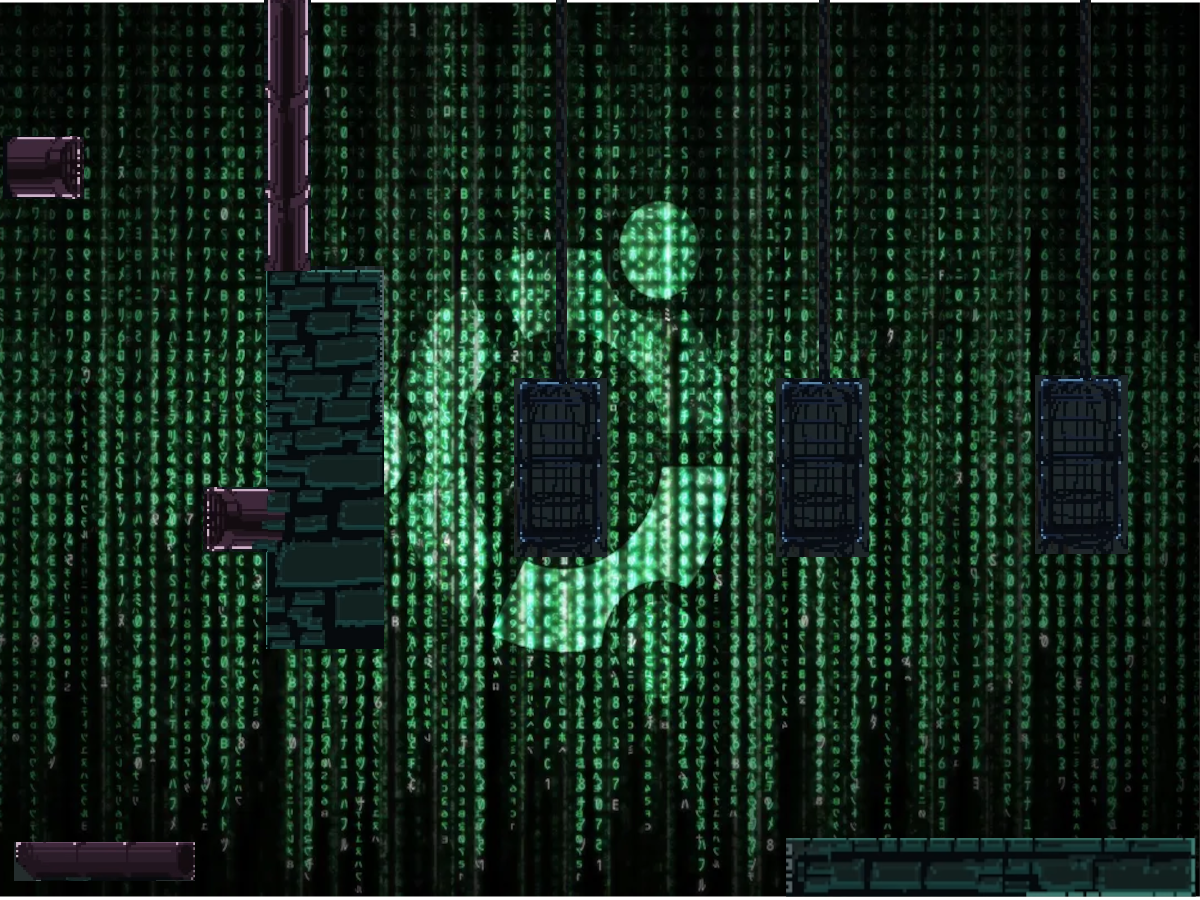
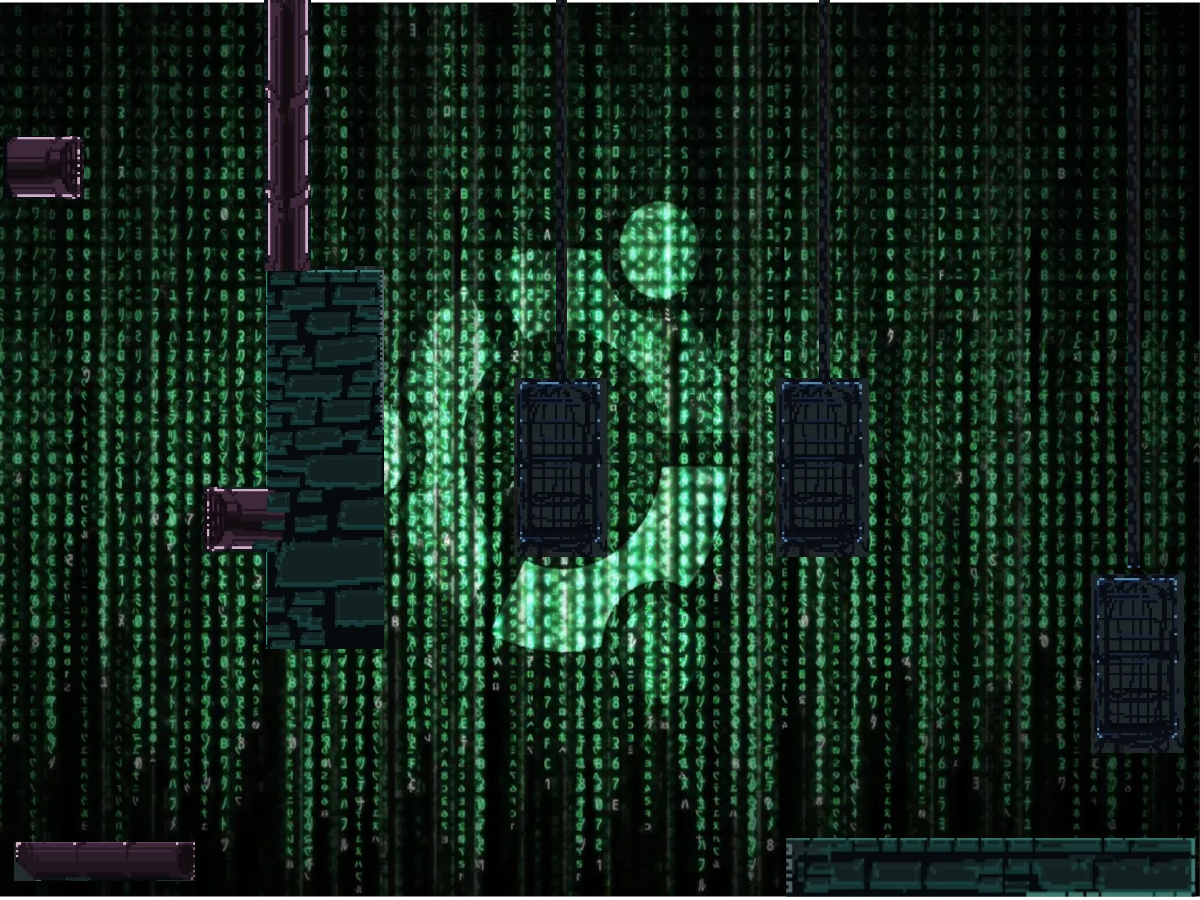
nivel 4 5 aumentados y correguido nivel 3

Changed region(s): [[0.8633, 0.0, 0.9867, 0.84]]

diff --git a/LevelSetupFunction.js b/LevelSetupFunction.js
@@ -54,6 +54,16 @@ function setupLevels() {
     tempLevel.lines.push(new Line(835,80,835,30));
     tempLevel.lines.push(new Line(375,30,835,30));
 
+    tempLevel.lines.push(new Line(160,253,240,253));
+
+  
+    tempLevel.lines.push(new Line(487,85,487,30));
+    tempLevel.lines.push(new Line(599,85,599,30));
+    tempLevel.lines.push(new Line(711,85,711,30));
+    
+
+
+
 
 
 
@@ -66,33 +76,54 @@ function setupLevels() {
     tempLevel.lines.push(new Line(1200,0,1200, 900));
 
     tempLevel.lines.push(new Line(0,900,120,900));
-    tempLevel.lines.push(new Line(30,800,30,900));
-    tempLevel.lines.push(new Line(60,800,60,900));
-    tempLevel.lines.push(new Line(90,800,90,900));
-
     tempLevel.lines.push(new Line(0,900,0,800));
     tempLevel.lines.push(new Line(120,900,120,800));
     tempLevel.lines.push(new Line(0,800,120,800));
-     
+    tempLevel.lines.push(new Line(30,900,30,800));
+    tempLevel.lines.push(new Line(60,900,60,800));
+    tempLevel.lines.push(new Line(90,900,90,800));
+    
     tempLevel.lines.push(new Line(50,350,170,350));
     tempLevel.lines.push(new Line(50,350,50,280));
     tempLevel.lines.push(new Line(170,350,170,280));
     tempLevel.lines.push(new Line(50,280,170,280));
-     
+    tempLevel.lines.push(new Line(80,350,80,280));
+    tempLevel.lines.push(new Line(110,350,110,280));
+    tempLevel.lines.push(new Line(140,350,140,280));
+    
     tempLevel.lines.push(new Line(450,670,615,670));
     tempLevel.lines.push(new Line(450,670,450,570));
     tempLevel.lines.push(new Line(615,670,615,570));
     tempLevel.lines.push(new Line(450,570,615,570));
-
+    tempLevel.lines.push(new Line(491,670,491,570));
+    tempLevel.lines.push(new Line(532,670,532,570));
+    tempLevel.lines.push(new Line(573,670,573,570));
+    
     tempLevel.lines.push(new Line(510,190,780,190));
     tempLevel.lines.push(new Line(510,190,510,85));
     tempLevel.lines.push(new Line(780,190,780,85));
     tempLevel.lines.push(new Line(510,85,780,85));
-     
+    tempLevel.lines.push(new Line(577,190,577,85));
+    tempLevel.lines.push(new Line(644,190,644,85));
+    tempLevel.lines.push(new Line(711,190,711,85));
+    
     tempLevel.lines.push(new Line(1030,900,1200,900));
+    tempLevel.lines.push(new Line(1030,850,1200,850));
+    tempLevel.lines.push(new Line(1030,800,1200,800));
+    tempLevel.lines.push(new Line(1030,750,1200,750));
+    tempLevel.lines.push(new Line(1030,700,1200,700));
+    tempLevel.lines.push(new Line(1030,650,1200,650));
+    tempLevel.lines.push(new Line(1030,600,1200,600));
+    tempLevel.lines.push(new Line(1030,550,1200,550));
+    tempLevel.lines.push(new Line(1030,500,1200,500));
+
     tempLevel.lines.push(new Line(1030,900,1030,410));
     tempLevel.lines.push(new Line(1200,900,1200,410));
     tempLevel.lines.push(new Line(1030,410,1200,410));
+    tempLevel.lines.push(new Line(1072,900,1072,410));
+//tempLevel.lines.push(new Line(1114,900,1114,410));
+//tempLevel.lines.push(new Line(1156,900,1156,410));
+
 
     //nivel 3
     levels.push(tempLevel);
@@ -105,49 +136,194 @@ function setupLevels() {
     tempLevel.lines.push(new Line(15,880,15,840));
     tempLevel.lines.push(new Line(200,880,200,840));
     tempLevel.lines.push(new Line(15,840,200,840));
+    tempLevel.lines.push(new Line(61,880,61,840));
+    tempLevel.lines.push(new Line(107,880,107,840));
+    tempLevel.lines.push(new Line(153,880,153,840));
     
     tempLevel.lines.push(new Line(265,645,380,645));
     tempLevel.lines.push(new Line(265,645,265,270));
     tempLevel.lines.push(new Line(380,645,380,270));
     tempLevel.lines.push(new Line(265,270,380,270));
+    tempLevel.lines.push(new Line(293,645,293,270));
+    tempLevel.lines.push(new Line(321,645,321,270));
+    tempLevel.lines.push(new Line(349,645,349,270));
     
     tempLevel.lines.push(new Line(205,550,270,550));
     tempLevel.lines.push(new Line(205,550,205,490));
     tempLevel.lines.push(new Line(270,550,270,490));
     tempLevel.lines.push(new Line(205,490,270,490));
+    tempLevel.lines.push(new Line(221,550,221,490));
+    tempLevel.lines.push(new Line(237,550,237,490));
+    tempLevel.lines.push(new Line(253,550,253,490));
     
     tempLevel.lines.push(new Line(265,275,310,275));
     tempLevel.lines.push(new Line(265,275,265,0));
     tempLevel.lines.push(new Line(310,275,310,0));
     tempLevel.lines.push(new Line(265,0,310,0));
+    tempLevel.lines.push(new Line(276,275,276,0));
+    tempLevel.lines.push(new Line(287,275,287,0));
+    tempLevel.lines.push(new Line(298,275,298,0));
     
     tempLevel.lines.push(new Line(0,195,85,195));
     tempLevel.lines.push(new Line(0,195,0,135));
     tempLevel.lines.push(new Line(85,195,85,135));
     tempLevel.lines.push(new Line(0,135,85,135));
+    tempLevel.lines.push(new Line(21,195,21,135));
+    tempLevel.lines.push(new Line(42,195,42,135));
+    tempLevel.lines.push(new Line(63,195,63,135));
 
     tempLevel.lines.push(new Line(520,555,605,555));
     tempLevel.lines.push(new Line(520,555,520,380));
     tempLevel.lines.push(new Line(605,555,605,380));
     tempLevel.lines.push(new Line(520,380,605,380));
+    tempLevel.lines.push(new Line(541,555,541,380));
+    tempLevel.lines.push(new Line(562,555,562,380));
+    tempLevel.lines.push(new Line(583,555,583,380));
 
     tempLevel.lines.push(new Line(780,555,870,555));
     tempLevel.lines.push(new Line(780,555,780,380));
     tempLevel.lines.push(new Line(870,555,870,380));
     tempLevel.lines.push(new Line(780,380,870,380));
+    tempLevel.lines.push(new Line(802,555,802,380));
+    tempLevel.lines.push(new Line(824,555,824,380));
+    tempLevel.lines.push(new Line(846,555,846,380));
 
-    tempLevel.lines.push(new Line(1030,555,1125,555));
-    tempLevel.lines.push(new Line(1030,555,1030,380));
-    tempLevel.lines.push(new Line(1125,555,1125,380));
-    tempLevel.lines.push(new Line(1030,380,1125,380));
+    tempLevel.lines.push(new Line(1100,750,1200,750));
+tempLevel.lines.push(new Line(1100,750,1100,575));
+tempLevel.lines.push(new Line(1200,750,1200,575));
+tempLevel.lines.push(new Line(1100,575,1200,575));
+tempLevel.lines.push(new Line(1125,750,1125,575));
+tempLevel.lines.push(new Line(1150,750,1150,575));
+tempLevel.lines.push(new Line(1175,750,1175,575));
 
     tempLevel.lines.push(new Line(780,900,1200,900));
     tempLevel.lines.push(new Line(780,900,780,840));
     tempLevel.lines.push(new Line(1200,900,1200,840));
     tempLevel.lines.push(new Line(780,840,1200,840));
+    tempLevel.lines.push(new Line(885,900,885,840));
+    tempLevel.lines.push(new Line(990,900,990,840));
+    tempLevel.lines.push(new Line(1095,900,1095,840));
+
 
     
     levels.push(tempLevel);
+
+        //Nivel 4
+    
+        tempLevel = new Level();
+        tempLevel.lines.push(new Line(0, 900, 0, 0));
+        tempLevel.lines.push(new Line(1200,0,1200,900));
+    
+        tempLevel.lines.push(new Line(0,865,95,865));
+        tempLevel.lines.push(new Line(0,865,0,640));
+        tempLevel.lines.push(new Line(95,865,95,640));
+        tempLevel.lines.push(new Line(0,640,95,640));
+        tempLevel.lines.push(new Line(23,865,23,640));
+        tempLevel.lines.push(new Line(46,865,46,640));
+        tempLevel.lines.push(new Line(69,865,69,640));
+        
+        tempLevel.lines.push(new Line(270,530,415,530));
+        tempLevel.lines.push(new Line(270,530,270,440));
+        tempLevel.lines.push(new Line(415,530,415,440));
+        tempLevel.lines.push(new Line(270,440,415,440));
+        tempLevel.lines.push(new Line(306,530,306,440));
+        tempLevel.lines.push(new Line(342,530,342,440));
+        tempLevel.lines.push(new Line(378,530,378,440));
+        
+        tempLevel.lines.push(new Line(600,250,750,250));
+        tempLevel.lines.push(new Line(600,250,600,170));
+        tempLevel.lines.push(new Line(750,250,750,170));
+        tempLevel.lines.push(new Line(600,170,750,170));
+        tempLevel.lines.push(new Line(637,250,637,170));
+        tempLevel.lines.push(new Line(674,250,674,170));
+        tempLevel.lines.push(new Line(711,250,711,170));
+        
+     
+        
+        tempLevel.lines.push(new Line(705,880,830,880));
+        tempLevel.lines.push(new Line(705,880,705,810));
+        tempLevel.lines.push(new Line(830,880,830,810));
+        tempLevel.lines.push(new Line(705,810,830,810));
+        tempLevel.lines.push(new Line(736,880,736,810));
+        tempLevel.lines.push(new Line(767,880,767,810));
+        tempLevel.lines.push(new Line(798,880,798,810));
+        
+        tempLevel.lines.push(new Line(1030,890,1200,890));
+        tempLevel.lines.push(new Line(1030,890,1030,770));
+        tempLevel.lines.push(new Line(1200,890,1200,770));
+        tempLevel.lines.push(new Line(1030,770,1200,770));
+        tempLevel.lines.push(new Line(1072,890,1072,770));
+        tempLevel.lines.push(new Line(1114,890,1114,770));
+        tempLevel.lines.push(new Line(1156,890,1156,770));
+        
+        tempLevel.lines.push(new Line(1100,470,1200,470));
+        tempLevel.lines.push(new Line(1100,470,1100,325));
+        tempLevel.lines.push(new Line(1200,470,1200,325));
+        tempLevel.lines.push(new Line(1100,325,1200,325));
+        tempLevel.lines.push(new Line(1125,470,1125,325));
+        tempLevel.lines.push(new Line(1150,470,1150,325));
+        tempLevel.lines.push(new Line(1175,470,1175,325));
+        
+    
+        levels.push(tempLevel);
+
+
+
+
+    //Nivel 5
+
+    tempLevel = new Level();
+    tempLevel.lines.push(new Line(0,900,40,900));
+tempLevel.lines.push(new Line(0,900,0,0));
+tempLevel.lines.push(new Line(40,900,40,0));
+tempLevel.lines.push(new Line(0,0,40,0));
+tempLevel.lines.push(new Line(10,900,10,0));
+tempLevel.lines.push(new Line(20,900,20,0));
+tempLevel.lines.push(new Line(30,900,30,0));
+
+tempLevel.lines.push(new Line(40,300,270,300));
+tempLevel.lines.push(new Line(40,300,40,230));
+tempLevel.lines.push(new Line(270,300,270,230));
+tempLevel.lines.push(new Line(40,230,270,230));
+tempLevel.lines.push(new Line(97,300,97,230));
+tempLevel.lines.push(new Line(154,300,154,230));
+tempLevel.lines.push(new Line(211,300,211,230));
+
+tempLevel.lines.push(new Line(430,660,600,660));
+tempLevel.lines.push(new Line(430,660,430,610));
+tempLevel.lines.push(new Line(600,660,600,610));
+tempLevel.lines.push(new Line(430,610,600,610));
+tempLevel.lines.push(new Line(472,660,472,610));
+tempLevel.lines.push(new Line(514,660,514,610));
+tempLevel.lines.push(new Line(556,660,556,610));
+
+tempLevel.lines.push(new Line(850,295,1165,295));
+tempLevel.lines.push(new Line(850,295,850,240));
+tempLevel.lines.push(new Line(1165,295,1165,240));
+tempLevel.lines.push(new Line(850,240,1165,240));
+tempLevel.lines.push(new Line(928,295,928,240));
+tempLevel.lines.push(new Line(1006,295,1006,240));
+tempLevel.lines.push(new Line(1084,295,1084,240));
+
+tempLevel.lines.push(new Line(985,897,1160,897));
+tempLevel.lines.push(new Line(985,897,985,825));
+tempLevel.lines.push(new Line(1160,897,1160,825));
+tempLevel.lines.push(new Line(985,825,1160,825));
+tempLevel.lines.push(new Line(1028,897,1028,825));
+tempLevel.lines.push(new Line(1071,897,1071,825));
+tempLevel.lines.push(new Line(1114,897,1114,825));
+
+tempLevel.lines.push(new Line(1160,897,1200,897));
+tempLevel.lines.push(new Line(1160,897,1160,0));
+tempLevel.lines.push(new Line(1200,897,1200,0));
+tempLevel.lines.push(new Line(1160,0,1200,0));
+tempLevel.lines.push(new Line(1170,897,1170,0));
+tempLevel.lines.push(new Line(1180,897,1180,0));
+tempLevel.lines.push(new Line(1190,897,1190,0));
+
+
+levels.push(tempLevel);
+
     //Nivel 4
     
     tempLevel = new Level();
@@ -285,50 +461,11 @@ function setupLevels() {
     
     levels.push(tempLevel);
     
+
     
     
-    tempLevel = new Level();
-    tempLevel.lines.push(new Line(1180, 900, 1180, 340));
-    tempLevel.lines.push(new Line(1180, 340, 960, 340));
-    tempLevel.lines.push(new Line(960, 340, 960, 400));
-    tempLevel.lines.push(new Line(960, 400, 720, 400));
-    tempLevel.lines.push(new Line(720, 400, 720, 280));
-    tempLevel.lines.push(new Line(960, 0, 960, 40));
-    tempLevel.lines.push(new Line(960, 40, 720, 280));
-    tempLevel.lines.push(new Line(740, 0, 740, 40));
-    tempLevel.lines.push(new Line(740, 40, 580, 200));
-    tempLevel.lines.push(new Line(580, 200, 580, 400));
-    tempLevel.lines.push(new Line(580, 400, 480, 400));
-    tempLevel.lines.push(new Line(480, 400, 480, 480));
-    tempLevel.lines.push(new Line(480, 480, 380, 480));
-    tempLevel.lines.push(new Line(380, 480, 380, 260));
-    tempLevel.lines.push(new Line(380, 260, 260, 260));
-    tempLevel.lines.push(new Line(260, 260, 260, 180));
-    tempLevel.lines.push(new Line(260, 180, 320, 120));
-    tempLevel.lines.push(new Line(320, 120, 380, 120));
-    tempLevel.lines.push(new Line(380, 120, 380, 0));
-    tempLevel.lines.push(new Line(220, 0, 220, 40));
-    tempLevel.lines.push(new Line(220, 40, 20, 40));
-    tempLevel.lines.push(new Line(20, 40, 20, 420));
-    tempLevel.lines.push(new Line(20, 420, 80, 420));
-    tempLevel.lines.push(new Line(80, 420, 260, 600));
-    tempLevel.lines.push(new Line(260, 600, 260, 680));
-    tempLevel.lines.push(new Line(260, 680, 480, 900));
-    tempLevel.lines.push(new Line(720, 900, 720, 520));
-    tempLevel.lines.push(new Line(720, 520, 1060, 520));
-    tempLevel.lines.push(new Line(1060, 520, 1060, 560));
-    tempLevel.lines.push(new Line(1060, 560, 920, 560));
-    tempLevel.lines.push(new Line(920, 560, 920, 860));
-    tempLevel.lines.push(new Line(920, 860, 1060, 860));
-    tempLevel.lines.push(new Line(1060, 860, 1060, 900));
-    tempLevel.lines.push(new Line(340, 600, 340, 620));
-    tempLevel.lines.push(new Line(340, 620, 460, 740));
-    tempLevel.lines.push(new Line(460, 740, 480, 740));
-    tempLevel.lines.push(new Line(480, 740, 480, 640));
-    tempLevel.lines.push(new Line(480, 640, 520, 640));
-    tempLevel.lines.push(new Line(520, 640, 520, 600));
-    tempLevel.lines.push(new Line(520, 600, 340, 600));
-    levels.push(tempLevel);
+    //Nivel 8
+
     tempLevel = new Level();
     tempLevel.lines.push(new Line(20, 0, 20, 160));
     tempLevel.lines.push(new Line(20, 160, 80, 160));

diff --git a/sketch.js b/sketch.js
@@ -62,7 +62,7 @@ function preload() {
 
     snowImage = loadImage('images/snow3.png')
 
-    for (let i = 1; i <= 6; i++) {
+    for (let i = 1; i <= 10; i++) {
         levelImages.push(loadImage('images/levelImages/' + i + '.png'))
     }
 

diff --git a/punton.py b/punton.py
@@ -4,7 +4,12 @@ def cordenadas(x1,y1,x2,y2):
     print("tempLevel.lines.push(new Line("+str(x1)+","+str(y1)+","+str(x1)+","+str(y2)+"));")
     print("tempLevel.lines.push(new Line("+str(x2)+","+str(y1)+","+str(x2)+","+str(y2)+"));")
     print("tempLevel.lines.push(new Line("+str(x1)+","+str(y2)+","+str(x2)+","+str(y2)+"));")
-
+    h = y2-y1
+    w = x2-x1
+    print("tempLevel.lines.push(new Line("+str(x1+ int(w/4)*1 )+","+str(y1)+","+str(x1 + int(w/4)*1)+","+str(y2)+"));")
+    print("tempLevel.lines.push(new Line("+str(x1+ int(w/4)*2 )+","+str(y1)+","+str(x1 + int(w/4)*2)+","+str(y2)+"));")
+    print("tempLevel.lines.push(new Line("+str(x1+ int(w/4)*3 )+","+str(y1)+","+str(x1 + int(w/4)*3)+","+str(y2)+"));")
+    
 
 
 #NIVEL 1
@@ -47,9 +52,40 @@ cordenadas(520,555,605,380)
 print("")
 cordenadas(780,555,870,380)
 print("")
-cordenadas(1030,555,1125,380)
+cordenadas(1100,750,1200,575)
 print("")
 cordenadas(780,900,1200,840)
+
+
+
+#%%
+#NIVEL 4
+cordenadas(0,865,95,640)
+print("")
+cordenadas(270,530,415,440)
+print("")
+cordenadas(600,250,750,170)
+print("")
+cordenadas(705,880,830,810)
+print("")
+cordenadas(1030,890,1200,770)
+print("")
+cordenadas(1100,470,1200,325)
+
+
+#%%
+#nivel 5
+cordenadas(0,900,40,0)
+print("")
+cordenadas(40,300,270,230)
+print("")
+cordenadas(430,660,600,610)
+print("")
+cordenadas(850,295,1165,240)
+print("")
+cordenadas(985,897,1160,825)
+print("")
+cordenadas(1160,897,1200,0)
 
 # %%
 import cv2
